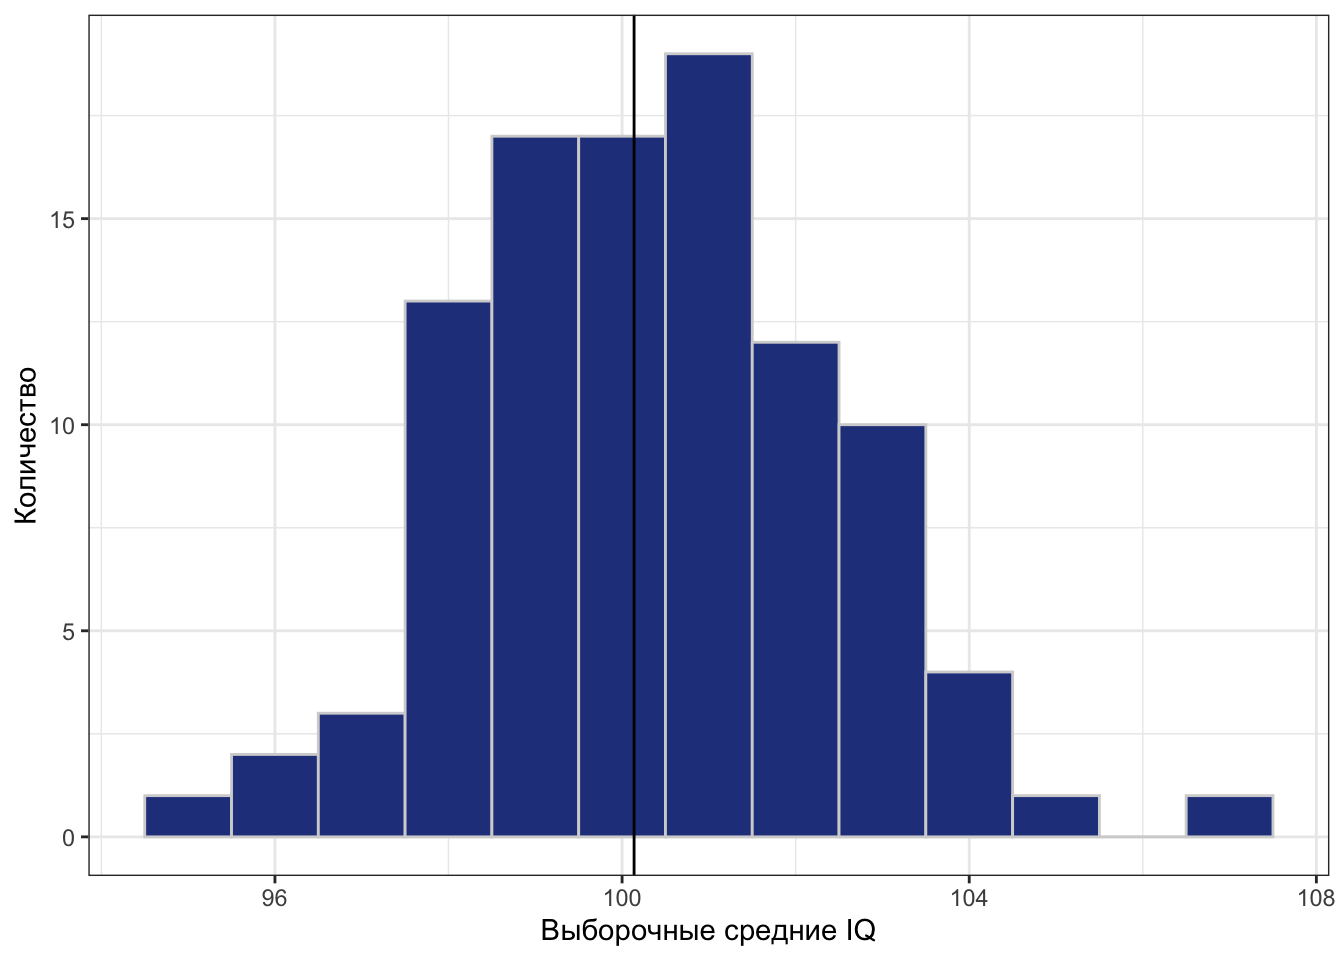
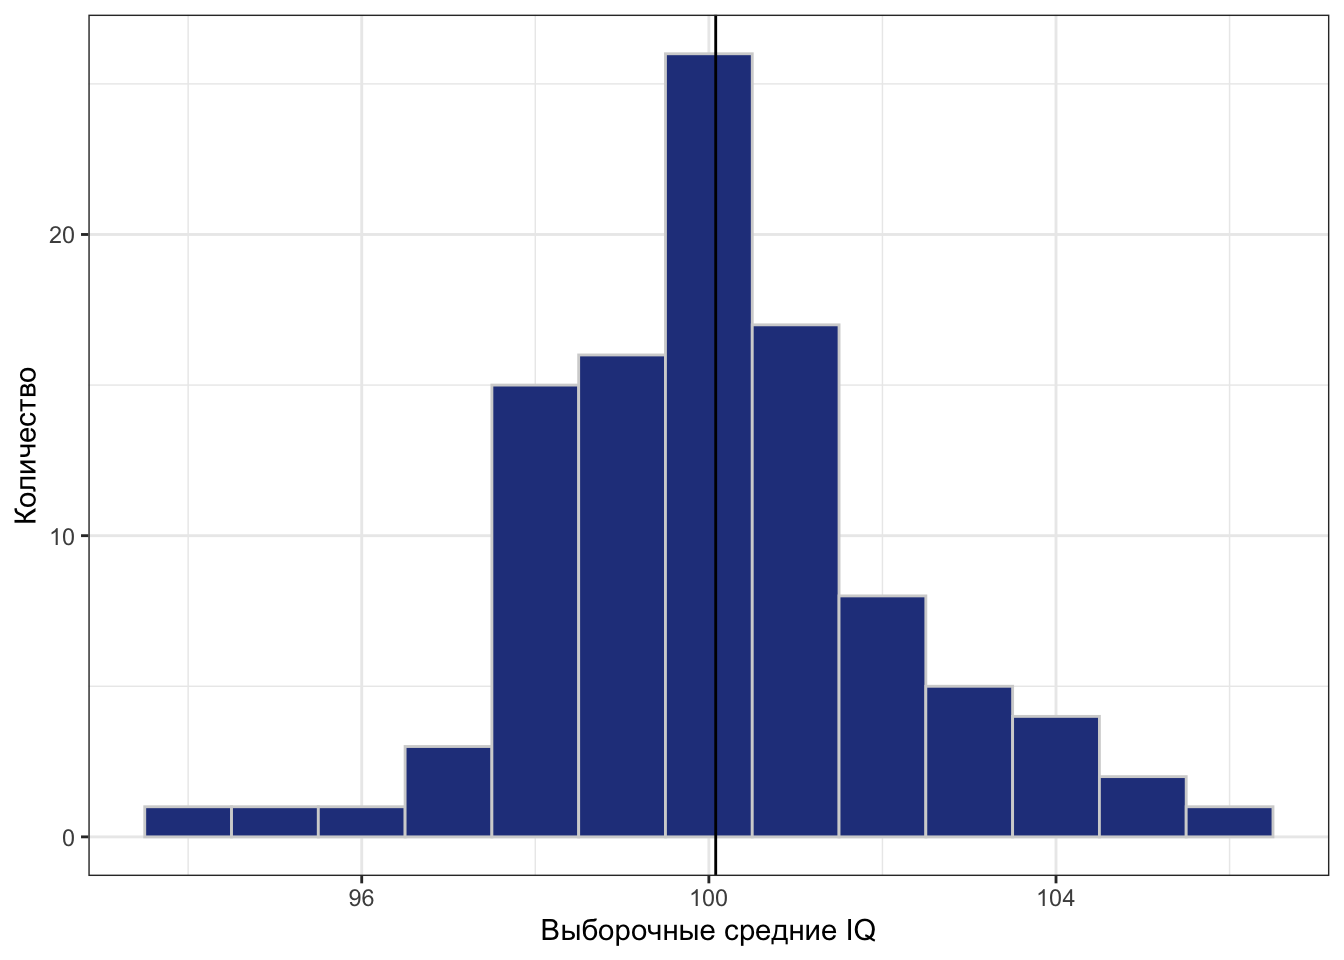
finish stat estim

diff --git a/book/wlm2021-book/_book/statestim.html b/book/wlm2021-book/_book/statestim.html
@@ -343,6 +343,8 @@ code span.wa { color: #60a0b0; font-weight: bold; font-style: italic; } /* Warni
 <li class="chapter" data-level="12" data-path="prob.html"><a href="prob.html"><i class="fa fa-check"></i><b>12</b> Вероятность и случайные величины</a><ul>
 <li class="chapter" data-level="12.1" data-path="prob.html"><a href="prob.html#дискретные-случайные-величины"><i class="fa fa-check"></i><b>12.1</b> Дискретные случайные величины</a></li>
 <li class="chapter" data-level="12.2" data-path="prob.html"><a href="prob.html#непрерывные-случайные-величины"><i class="fa fa-check"></i><b>12.2</b> Непрерывные случайные величины</a></li>
+<li class="chapter" data-level="12.3" data-path="prob.html"><a href="prob.html#moments_distributions"><i class="fa fa-check"></i><b>12.3</b> Характеристики распределения случайных величин</a></li>
+<li class="chapter" data-level="12.4" data-path="prob.html"><a href="prob.html#normal_distribution"><i class="fa fa-check"></i><b>12.4</b> Нормальное распределение</a></li>
 </ul></li>
 <li class="chapter" data-level="13" data-path="statestim.html"><a href="statestim.html"><i class="fa fa-check"></i><b>13</b> Оценивание параметров в практике статистического анализа</a><ul>
 <li class="chapter" data-level="13.1" data-path="statestim.html"><a href="statestim.html#точечные-оценки"><i class="fa fa-check"></i><b>13.1</b> Точечные оценки</a><ul>
@@ -439,25 +441,25 @@ code span.wa { color: #60a0b0; font-weight: bold; font-style: italic; } /* Warni
 <pre><code>## # A tibble: 6 x 2
 ##      id    IQ
 ##   &lt;int&gt; &lt;dbl&gt;
-## 1     1   106
-## 2     2   112
-## 3     3   114
-## 4     4   119
-## 5     5    74
-## 6     6   115</code></pre>
+## 1     1   104
+## 2     2    98
+## 3     3   112
+## 4     4   111
+## 5     5   105
+## 6     6    94</code></pre>
 <div class="sourceCode" id="cb5"><pre class="sourceCode r"><code class="sourceCode r"><span id="cb5-1"><a href="statestim.html#cb5-1"></a><span class="kw">tail</span>(iq)</span></code></pre></div>
 <pre><code>## # A tibble: 6 x 2
 ##      id    IQ
 ##   &lt;int&gt; &lt;dbl&gt;
-## 1  9995   128
-## 2  9996   123
-## 3  9997    91
-## 4  9998   101
-## 5  9999    91
-## 6 10000    89</code></pre>
+## 1  9995   129
+## 2  9996    95
+## 3  9997   106
+## 4  9998    92
+## 5  9999    87
+## 6 10000   103</code></pre>
 <p>Так как мы предположили, что это генеральная совокупность, то мы можем посчитать истинное значение параметра <span class="math inline">\(\mu\)</span>. <strong>В реальной жизни мы этого сделать не можем!</strong></p>
 <div class="sourceCode" id="cb7"><pre class="sourceCode r"><code class="sourceCode r"><span id="cb7-1"><a href="statestim.html#cb7-1"></a><span class="kw">mean</span>(iq<span class="op">$</span>IQ)</span></code></pre></div>
-<pre><code>## [1] 100.1383</code></pre>
+<pre><code>## [1] 100.0789</code></pre>
 <p>Вполне ожидаемое значение<a href="#fn1" class="footnote-ref" id="fnref1"><sup>1</sup></a>. Теперь попробуем наизвлекать выборок человек по 50 и посчитать <em>оценки среднего (выборочные средние)</em> <span class="math inline">\(\hat \mu\)</span> на них:</p>
 <div class="sourceCode" id="cb9"><pre class="sourceCode r"><code class="sourceCode r"><span id="cb9-1"><a href="statestim.html#cb9-1"></a>means &lt;-<span class="st"> </span><span class="kw">numeric</span>()</span>
 <span id="cb9-2"><a href="statestim.html#cb9-2"></a><span class="cf">for</span> (i <span class="cf">in</span> <span class="dv">1</span><span class="op">:</span><span class="dv">100</span>) {</span>
@@ -473,7 +475,7 @@ code span.wa { color: #60a0b0; font-weight: bold; font-style: italic; } /* Warni
 <div id="метод-моментов" class="section level3">
 <h3><span class="header-section-number">13.1.1</span> Метод моментов</h3>
 <p>Чтобы получить точечные оценки параметров, используются разные методы в зависимости от конкретной модели анализа. Сейчас мы познакомимся с самым простым — <strong>методом моментов</strong>. Другие разберем, когда с ними столкнёмся.</p>
-<p>Само название метода отсылает нас к обсуждению <a href="#moments_distributions">характеристик распределений случайных величин</a>. Мы говорили о том, что распредления характеризуются их <em>моментами</em>. В методе моментов есть три этапа:</p>
+<p>Само название метода отсылает нас к обсуждению <a href="prob.html#moments_distributions">характеристик распределений случайных величин</a>. Мы говорили о том, что распредления характеризуются их <em>моментами</em>. В методе моментов есть три этапа:</p>
 <ol style="list-style-type: decimal">
 <li>устанавливается связь между оцениваемым параметром и моментом распределения</li>
 </ol>
@@ -489,7 +491,7 @@ code span.wa { color: #60a0b0; font-weight: bold; font-style: italic; } /* Warni
 <ol start="3" style="list-style-type: decimal">
 <li>истинный момент заменяется на выборочный — получается оценка.</li>
 </ol>
-<p>Для примера разберём всё тот же датасет с IQ. Мы знаем, что распределение баллов IQ подчинается <a href="#normal_distribution">нормальному закону</a>. Поэтому в качестве параметра «среднее значение коэффициента интеллекта» генеральной совокупности можно использовать математическое ожидание:</p>
+<p>Для примера разберём всё тот же датасет с IQ. Мы знаем, что распределение баллов IQ подчинается <a href="prob.html#normal_distribution">нормальному закону</a>. Поэтому в качестве параметра «среднее значение коэффициента интеллекта» генеральной совокупности можно использовать математическое ожидание:</p>
 <p><span class="math display">\[
 \mu = \mathbb{E}X
 \]</span></p>
@@ -531,8 +533,60 @@ code span.wa { color: #60a0b0; font-weight: bold; font-style: italic; } /* Warni
 </div>
 <div id="интервальные-оценки" class="section level2">
 <h2><span class="header-section-number">13.2</span> Интервальные оценки</h2>
+<blockquote>
+<p>Но этого мало…</p>
+</blockquote>
+<p>Кроме самого значения оценки, необходимо определить качество этой оценки, иначе говоря — её точность. Для этого используется такая величина как <strong>надёжность</strong>:</p>
+<p><span class="math display">\[
+\gamma = \mathrm{P}(\theta_\min &lt; \theta &lt; \theta_\max)
+\]</span></p>
+<p>Такая форма оценки называется <strong>интервальной оценкой параметра</strong>, так как мы указываем <em>интервал</em>, в котором находится истинное значение с определённой вероятностью.</p>
+<p>Такая форма оценки даёт исчерпывающую информацию о параметре: мы знаем (1) интервал, в котором находится значение параметра генеральной совокупности, а также (2) надёжность, с которой выбранный интервал накрывает это значение.</p>
+<p>Значение надежности <span class="math inline">\(\gamma\)</span> может быть выбрано произвольно, но обычно оно близко к единице. Однако необхожимо помнить, что чем выше надёжность, тем шире границы интервальной оценки.</p>
 <div id="confinterval" class="section level3">
 <h3><span class="header-section-number">13.2.1</span> Доверительный интервал</h3>
+<p>Вариантом интервальной оценки является <strong>доверительный интервал (confidence interval)</strong>. Итак, ещё раз:</p>
+<p><span class="math display">\[
+\mathrm{P}(\theta_\min &lt; \theta &lt; \theta_\max) = \gamma, \; \gamma \rightarrow 1
+\]</span></p>
+<p><span class="math inline">\(theta_\min\)</span> и <span class="math inline">\(\theta_\max\)</span> — границы доверительного интервала, <span class="math inline">\(\gamma\)</span> — доверительная вероятность. На практике её значение чаще всего принимается равным <span class="math inline">\(0.95\)</span>.</p>
+<p><strong>Алгоритм определения интервальной оценки</strong> следующий:</p>
+<ol style="list-style-type: decimal">
+<li>Найсти статистику <span class="math inline">\(\zeta(\theta)\)</span>, связанную с оцениваниемым параметром, закон распределения которой известен <span class="math inline">\(f(\zeta)\)</span>.</li>
+<li>Определить значения <span class="math inline">\(\zeta_\min\)</span> и <span class="math inline">\(\zeta_\max\)</span>, в пределах которых статистика находится с вероятностью <span class="math inline">\(\gamma\)</span>.</li>
+<li>Зная связь <span class="math inline">\(\zeta(\theta)\)</span> перейти к границам <span class="math inline">\(\theta_\min\)</span> и <span class="math inline">\(\theta_\max\)</span>.</li>
+</ol>
+<p>Разберемся с этим на примере построения доверительного интервала для генерального среднего.</p>
+<p>Первая задача — найти статистику. Мы воспользуемся тем, что за нас поработали учёные-статистики и сказали, что вот такая вполне подойдёт:</p>
+<p><span class="math display">\[
+t = \frac{\bar x - \mu}{s}\sqrt{n-1},
+\]</span></p>
+<p>где <span class="math inline">\(t\)</span> — значение статистики, <span class="math inline">\(\bar x\)</span> — выборочное среднее, <span class="math inline">\(\mu\)</span> — генеральное среднее, <span class="math inline">\(s\)</span> — выборочное стандартное отклонение, <span class="math inline">\(n\)</span> — объём выборки.</p>
+<p>Известен ли закон её распредления? Да. Эта статистика подчинается <span class="math inline">\(t\)</span>-распределению (распределению Стьюдента). Оно похоже на нормальное, но хвосты у него повыше:</p>
+<center>
+<img src="img/student_pdf.JPG">
+</center>
+<p>Теперь надо сформулировать вид интервальной оценки для генерального среднего. Путем арифметических преобразований формулы выше мы имеет следующее:</p>
+<p><span class="math display">\[
+\mu = \bar x - t \frac{s}{\sqrt{n-1}}
+\]</span></p>
+<p>Значит вид интервальной оценки будет таков:</p>
+<p><span class="math display">\[
+\mathrm{P}\Big( \bar x - t_\alpha \frac{s}{\sqrt{n-1}} &lt; \mu &lt; 
+\bar x + t_\alpha \frac{s}{\sqrt{n-1}}\Big) = 1 - \alpha = \gamma
+\]</span></p>
+<p>Посмотрим на картинку:</p>
+<center>
+<img src="img/mean_ci_graph.jpeg">
+</center>
+<p>Видим на ней наш доверительный интвервал и значения <span class="math inline">\(t_\alpha\)</span> и <span class="math inline">\(-t_\alpha\)</span>. Сама <span class="math inline">\(\alpha\)</span> обозначает вероятность выхода за границы доверительного интервала. Осталось всё это высчитать в числах, и получить границы доверительного интервала.</p>
+<p>Хорошо, что весь этот ужас в R скрыт под капотом:</p>
+<div class="sourceCode" id="cb10"><pre class="sourceCode r"><code class="sourceCode r"><span id="cb10-1"><a href="statestim.html#cb10-1"></a><span class="kw">mean_cl_normal</span>(iq<span class="op">$</span>IQ)</span></code></pre></div>
+<pre><code>##          y     ymin     ymax
+## 1 100.0789 99.78657 100.3712</code></pre>
+<div class="sourceCode" id="cb12"><pre class="sourceCode r"><code class="sourceCode r"><span id="cb12-1"><a href="statestim.html#cb12-1"></a><span class="kw">mean_cl_boot</span>(iq<span class="op">$</span>IQ)</span></code></pre></div>
+<pre><code>##          y     ymin     ymax
+## 1 100.0789 99.78636 100.3724</code></pre>
 
 </div>
 </div>
